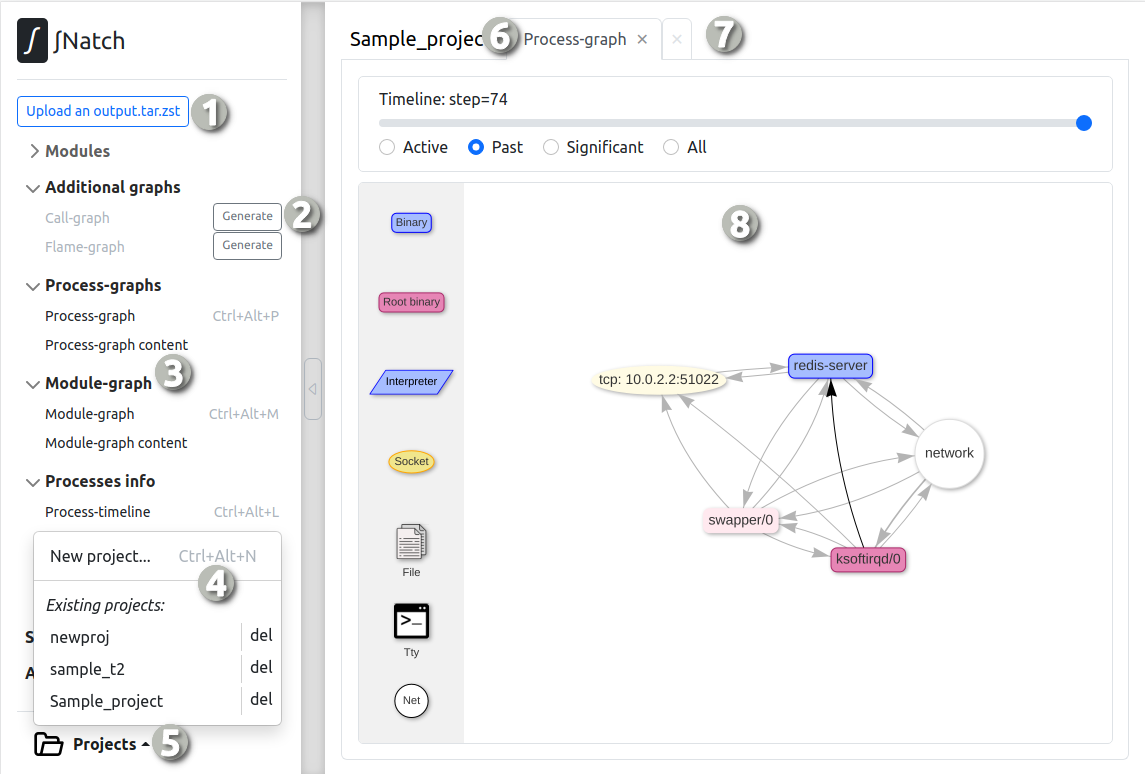
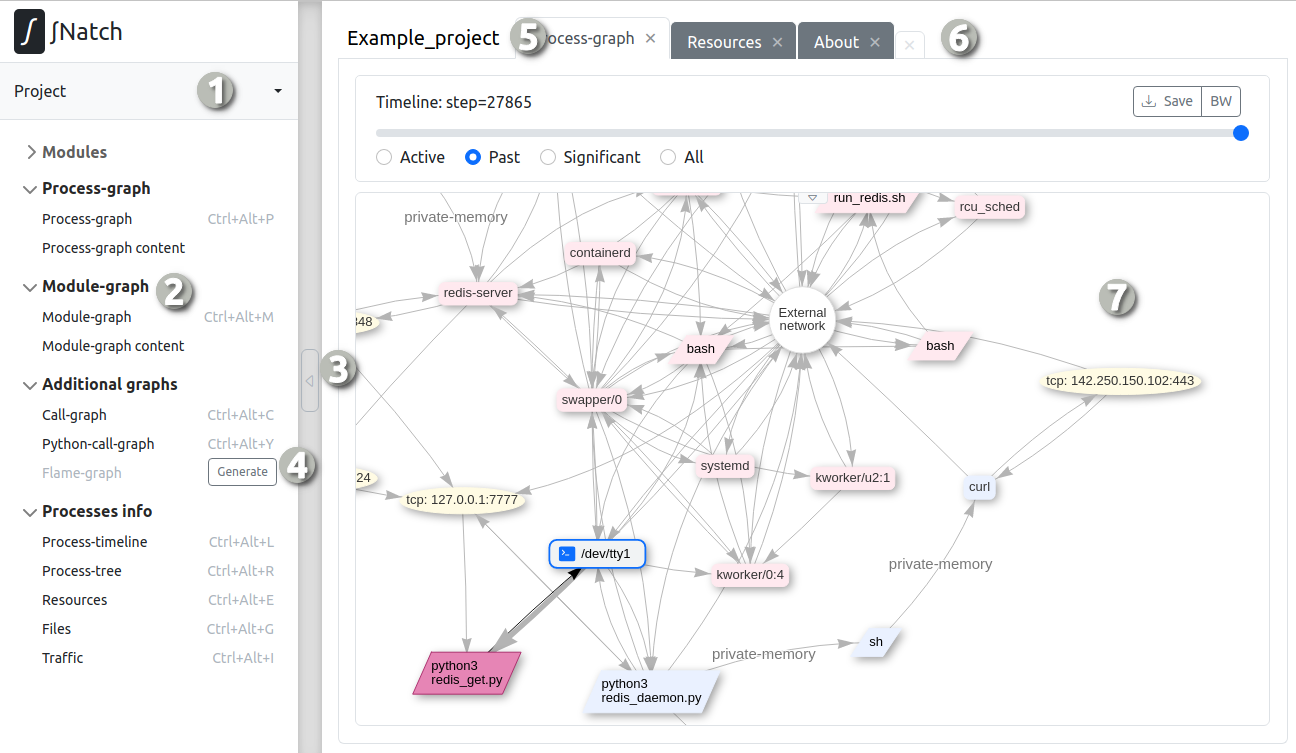
snatch: changed documentation accrodingly to the new release

diff --git a/6_snatch.md b/6_snatch.md
@@ -28,29 +28,32 @@
 
 На данном рисунке показано окно *SNatch*, где цифрами обозначены основные элементы интерфейса:
 
-1. Кнопка для повторной загрузки архива полученного от *Natch*. При нажатии на эту кнопку информация о текущем проекте будет стерта, вкладки закрыты, и будет запущена обработка выбранного архива.
-2. Кнопки генерации дополнительных графов. Граф вызовов и флейм граф не строятся автоматически при создании проекта. Для их генерации необходимо нажать на соответствующие кнопки. После нажатия на кнопке появится индикатор прогресса. При повторном нажатии на кнопку процесс генерации будет отменен. По завершении процесса кнопка исчезнет, а соответствующий пункт в меню станет активным.
-3. Меню проекта. Содержит список доступных данных для проекта (таких как: граф процессов, граф модулей, дерево процессов, граф вызовов и т.д.)
-4. Всплывающее меню для взаимодействия с проектами (создание нового, открытие и удаление существующего).
-5. Кнопка открытия меню взаимодействия с проектами.
-6. Название открытого проекта. По нажатию на название имя проекта можно изменять.
-7. Панель открытых вкладок с содержимым. Каждая вкладка содержит имя и кнопку закрытия. Также на панели представлена кнопка для быстрого закрытия всех вкладок.
-8. Окно отображения содержимого.
+1. Кнопка для вызова главного меню, из которой можно создать новый проект, запустить ряд функций, относящихся к открытому проекту, и открыть существующий проект.
+2. Меню открытого проекта. Содержит список доступных данных для проекта (таких как: граф процессов, граф модулей, дерево процессов, граф вызовов и т.д.)
+3. Кнопка для сворачивания меню проекта.
+4. Кнопка для генерации дополнительных графов для проекта (граф вызовов, граф вызовов python и флейм граф).
+5. Название открытого проекта. По нажатию на элемент активируется режим редактиврования, и имя проекта можно изменить.
+6. Панель открытых вкладок с содержимым. Каждая вкладка содержит имя и кнопку закрытия. Также на панели представлена кнопка для быстрого закрытия всех вкладок.
+7. Окно отображения содержимого.
 
-### 6.3.1. Создание проекта
+### 6.3.1 Главное меню
+Главное меню предоставляет доступ к созданию нового проекта, настройкам, экспорту открытого проекта в .pdf и данным о проекте. Также здесь отображается список существующих проектов, открытие которых осуществляется по нажатию на имя, а удаление – по нажатию на кнопку "del" рядом с именем.
 
-Для создания нового проекта необходимо нажатием на (6) открыть меню проектов и выбрать *New project...*. Для переключения между существующим проектами необходимо из меню проектов в списке *Existing projects:* выбрать название интересующего проекта. Для удаления проекта достаточно в списке проектов нажать на кнопку *del* рядом с именем удаляемого проекта.
+<img src=https://raw.githubusercontent.com/ispras/natch/main/images/snatch/snatch_menu.png><figcaption>_Главное меню_</figcaption>
 
-При нажатии на (1) в уже открытом проекте пользователю будет предложено выбрать новый архив (данный архив получается в результате работы *Natch*), после чего текущие данные в проекте будут стёрты и заменены полученными в результате обработки предоставленного файла.
+
+#### 6.3.1.1 Создание проекта
+
+Для создания нового проекта необходимо выбрать в главном меню пункт *New project...*.
 
 При создании нового проекта открывается модальное окно:
 
 <img src=https://raw.githubusercontent.com/ispras/natch/main/images/snatch/snatch_new_proj_modal.png><figcaption>_Создание проекта_</figcaption>
 
 В данном окне пользователь должен ввести имя нового проекта в соответствующее поле *Project name*,
-а также выбрать архив от *Natch* в поле *Choose surface file*. Эти поля являются обязательными при создании проекта, поэтому только при их заполнении становится активна кнопка *Create*. По нажатию на *Create* создаётся проект, запускается обработка архива, и окно закрывается. При нажатии на кнопку *Close* окно закрывается без создания проекта.
+а также выбрать архив от *Natch* в поле *Choose an output.tar.zst*. Эти поля являются обязательными при создании проекта, поэтому только при их заполнении становится активна кнопка *Create*. Если в момент выбора файла архива поле имени не заполнено, то в него автоматически подставится имя файла. По нажатию на *Create* создаётся проект, запускается обработка архива, и окно закрывается. При нажатии на кнопку *Close* окно закрывается без создания проекта.
 
-Помимо обязательных полей в данном окне присутствует опциональное поле *Description* в котором можно оставить пометки о загружаемом архиве. При работе с проектом эту информацию можно будет увидеть в разделе *About project*.
+Помимо обязательных полей в данном окне присутствует опциональное поле *Description* в котором можно оставить пользовательские заметки. При работе с проектом эту информацию можно будет увидеть в разделе *About the project*.
 
 Название проекта не может содержать ряд специальных символов, и *Snatch* не даст их использовать как при первичном создании проекта, так и при переименовании.
 
@@ -64,9 +67,39 @@
 
 При создании проекта (и открытии проекта без сохраненных вкладок) в нём по умолчанию открывается окно графа процессов.
 
+#### 6.3.1.2 Настройки
+
+Для открытия окна настроек необходимо вызвать из главного меню пункт *Settings*. Содержимое открытого окна будет иметь следующий вид:
+
+<img src=https://raw.githubusercontent.com/ispras/natch/main/images/snatch/snatch_settings.png><figcaption>_Настройки_</figcaption>
+
+В настоящий момент в настройках представлены только поля для конфигурации соединения со *Svacer*, а именно: сетевой адрес, логин и пароль. Это же окно будет открыто при первой попытке взаимодействия со *Svacer* из графа процессов, если параметры соединения не были ранее заданы.
+
+#### 6.3.1.3 Экспортирование проекта
+
+Для экспортирования основной информации о текущем проекте необходимо вызвать из главного меню пункт *Export to pdf*. Содержимое открытого окна будет иметь следующий вид:
+
+<img src=https://raw.githubusercontent.com/ispras/natch/main/images/snatch/snatch_export_modal.png><figcaption>_Окно экспорта_</figcaption>
+
+В данном окне можно выбрать какие именно данные попадут в сгенерированный файл. Выбирать можно из: графа процессов, графа модулей, дерева процессов и ресурсов. Для графа процессов и графа модулей включение в экспорт доступно только после первого открытия, так как требуется первоначальная конфигурация этих графов (в противном случае в окне будет отображаться информационное сообщение). Для дерева процессов и ресурсов можно с помощью переключателей настроить будет ли в сгенерированных данных отображаться информация о рутовых процессах, а так же вся информация, или только о взаимодействии с помеченными данными. После нажатия кнопки *Generate* будет запущен процесс генерация файла, по завершении которого пользователю будет предложено сохранить полученный файл.
+
+Помимо выбранных пунктов в сгенерированный файл всегда попадает содержимое вкладки "About the project" и таблица соответствия внутренних идентификаторов процессов к имеющимся о них данным.
+
+#### 6.3.1.4 О проекте
+
+Для открытия информации о проекте необходимо вызвать из главного меню пункт *About the project*. Содержимое открытой вкладки будет иметь следующий вид:
+
+<img src=https://raw.githubusercontent.com/ispras/natch/main/images/snatch/snatch_about_project.png><figcaption>_Данные о проекте_</figcaption>
+
+Окно содержит следующие элементы:
+
+1. Данные о загруженном архиве: дата создания, рабочая директория, диапазон шагов (процессорных инструкций) сценария, допуск пометок, данные о рассматриваемых источниках пометок.
+2. Статистика помеченных данных в рассматриваемом сценарии.
+3. Версия *Natch*, на которой происходила запись архива.
+4. Заметки для проекта. По умолчанию здесь размещается содержимое поля *Description*, если оно было использовано при создании проекта. Заметки можно редактировать, сохранение происходит автоматически.
 ### 6.3.2. Граф процессов
 
-Граф процессов открывается автоматически после создания проекта. Позже его можно снова открыть через меню.
+Граф процессов открывается автоматически после создания проекта, при наличии в проекте помеченных данных (в противном случае будет выведено информационное сообщение). Его также можно открыть через меню проекта.
 В меню графа процессов есть два пункта: *Process-graph* и *Process-graph content* (json представление графа). После выбора одного из этих пунктов открывается новая вкладка с соответствующим названием. Для *Process-graph content* содержимое вкладки будет представлено текстом, а для *Process-graph* откроется вкладка следующего вида:
 
 <img src=https://raw.githubusercontent.com/ispras/natch/main/images/snatch/snatch_process_graph.png><figcaption>_Граф процессов_</figcaption>
@@ -74,13 +107,20 @@
 В окне графа процессов представлены следующие элементы:
 
 1. Шкала выбора активного шага выполнения. Перемещение по данной шкале соответствующим образом изменяет отображаемый граф.
-2. Выбор режима отображения графа. Граф процессов поддерживает 4 режима отображения:
+2. Кнопки сохранения (экспорта в pdf) текущего состояния графа. По нажатию кнопки "Save" происходит создание цветного изображения графа, по нажатию на "BW" – черно-белого.
+3. Выбор режима отображения графа. Граф процессов поддерживает 4 режима отображения:
   * *Active* – отображаются элементы (узлы и стрелки), которые задействованы на текущем шаге;
   * *Past* – отображаются элементы, которые задействованы на текущем шаге, а также те, которые произошли в прошлом (узлы и стрелки серого цвета);
   * *Significant* – отображаются элементы, которые задействованы на текущем шаге, а также те узлы, которые были задействованы в прошлом и при этом еще будут задействованы в будущем, и прошедшие стрелки между ними (узлы и стрелки бледных цветов);
   * *All* – отображаются элементы, которые задействованы на текущем шаге, а также те узлы (но не стрелки), которые вообще существуют на схеме (узлы бледных цветов).
-3. Легенда графа. Описывает набор отображаемых на графе узлов и их внешний вид.
-4. Граф процессов. Интерактивный граф, отображающий взаимодействие процессов, работавших с помеченными данными. Расположение узлов на графе можно изменять удобным для пользователя образом. При двойном нажатии на узел в данном графе произойдет открытие новой вкладки с отображением графа модулей для выбранного процесса. При наличии информации о контейнерах, таковые будут отображены на графе в виде зеленых блоков, содержащих соответствующие им процессы.
+4. Легенда графа. Описывает набор отображаемых на графе узлов и их внешний вид. По нажатию на элемент легенда скрывается и может быть повторна вызвана нажатием на оставшийся "язычок".
+4. Граф процессов. Интерактивный граф, отображающий взаимодействие процессов, работавших с помеченными данными. Расположение узлов на графе можно изменять удобным для пользователя образом. При наличии информации о контейнерах, таковые будут отображены на графе в виде зеленых блоков, содержащих соответствующие им процессы. При нажатии на узел происходит отображение бокового информационное окно:
+
+<img src=https://raw.githubusercontent.com/ispras/natch/main/images/snatch/snatch_process_infoblock.png><figcaption>_Информационное окно_</figcaption>
+
+В информационном блоке содержатся: название выбранного элемента, его свойства, кнопка открытия соответствующего отфильтрованного графа модулей.
+
+Отдельно обращаем внимание, что положение узлов при взаимодействии с графом сохраняется. При повторном открытии графа процессов узлы будут расположены так же, как и в прошлый раз, при этом не будет происходить перестроение графа с учетом физической модели.
 
 При нажатии правой кнопкой мыши на узел в графе процессов появляется контекстное меню, из которого можно осуществить взаимодействие со *Svacer*. При первой попытке взаимодействия пользователю будет предложено установить адрес сервера, имя и пароль пользователя (если ранее это не было установлено через раздел *Settings*). Затем пользователь увидит окно следующего вида:
 
@@ -94,36 +134,58 @@
 
 <img src=https://raw.githubusercontent.com/ispras/natch/main/images/snatch/snatch_module_graph.png><figcaption>_Граф модулей_</figcaption>
 
-В данном окне представлены следующие элементы:
+Функционал этого окна почти полностью повторяет функционал графа процессов (см 6.3.2):
 
 1. Шкала выбора активного шага выполнения. Перемещение по данной шкале соответствующим образом изменяет отображаемый граф.
-2. Легенда графа. Описывает набор отображаемых на графе узлов и их внешний вид.
+2. Кнопки экспорта графа в цветном и черно-белом варианте.
+3. Сворачиваемая легенда графа. Описывает набор отображаемых на графе узлов и их внешний вид.
 3. Граф модулей. Интерактивный граф, отображающий взаимодействие модулей, работавших с помеченными данными. Расположение узлов на графе можно изменять удобным для пользователя образом. Стрелки, описывающие взаимодействие, сопровождаются номером, соответствующим очередности взаимодействия. Номер с символом *(звездочкой) означает, что на данном шаге между модулями было более одного взаимодействия.
 
-### 6.3.4. Граф вызовов
+Так же, как и в графе процессов, нажатие на узел в графе модулей вызывает информационное окно, содержащее данные о выбранном элементе.
+При взаимодействии с графом его положение сохраняется и воспроизводится при последующем открытии.
 
-В процессе первоначальной обработки архива поверхности атаки граф вызовов не создаётся. Чтобы граф вызовов появился в проекте, необходимо нажать на кнопку *Generate* рядом с соответствующим пунктом в меню проекта. Повторное нажатие кнопки до завершения генерации приведет к отмене процесса. По завершении генерации в боковом меню проекта под пунктом *Additional graphs* станет активным пункт *call-graph*. Для открытия графа вызовов достаточно нажать на данный пункт в меню. После открытия появится новая вкладка с соответствующим названием, а в окне отображения содержимого откроется граф, представленный в виде древовидной структуры:
+### 6.3.4. Графы вызовов
+#### 6.3.4.1 Классический граф вызовов
+
+В процессе первоначальной обработки архива поверхности атаки граф вызовов не создаётся. Чтобы граф вызовов появился в проекте, необходимо нажать на кнопку *Generate* рядом с соответствующим пунктом в меню проекта. Повторное нажатие кнопки до завершения генерации приведет к отмене процесса. По завершении генерации в боковом меню проекта под пунктом *Additional graphs* станет активным пункт *Call-graph* и появится пункт *Python-call-graph* (подробнее в 6.3.4.2). Для открытия графа вызовов достаточно нажать на данный пункт в меню. После открытия появится новая вкладка с соответствующим названием, а в окне отображения содержимого откроется граф, представленный в виде древовидной структуры:
 
 <img src=https://raw.githubusercontent.com/ispras/natch/main/images/snatch/snatch_call_graph.png><figcaption>_Граф вызовов_</figcaption>
 
 В данном окне представлены следующие элементы:
 
 1. Чекбоксы опций. *Hide symbolless graphs* прячет из отображаемого графа деревья, не содержащие распознанных символов (если данная опция неактивна, то в текущем проекте все деревья содержат символьную информацию); *Full modules path* задаёт формат отображения имен модулей на графе: сокращенный или полный путь.
-2. Элементы управления графом. Первая кнопка (три горизонтальные черты) раскрывает все ветви графа, содержащие символы; повторное нажатие этой кнопки сворачивает весь граф. Нажатие на кнопки +/- рядом с веткой раскрывает/сворачивает данную ветку в дереве.
-3. Содержимое графа. В корне дерева отображается имя процесса, к которому относится данный граф вызовов. Каждый узел дерева содержит имя вызванной функции (адрес смещения в модуле, при отсутствии символьной информации), путь к файлу исходного кода и строка в файле, относящаяся к началу функции, имя модуля. Синим цветом выделяются функции непосредственно взаимодействовавшие с помеченными данными. При наведении курсора на "синие" функции возникает всплывающая подсказка, содержащая номера строк в исходниках, где происходило взаимодействие с помеченными данным. При нажатии на функцию правой кнопкой мыши появляется контекстное меню, из которого можно запустить генерацию вспомогательных данных для Futag. Сгенерированные данные будут помещены в файл в папке *snatch_directory/fuzzing_targets*.
+2. Элементы управления графом. Первая кнопка (три горизонтальные черты с буквой "А") раскрывает все ветви графа; кнопка с буквой "S" раскрывает только символизированные ветви. Повторное нажатие кнопки сворачивает граф. Нажатие на кнопки +/- рядом с веткой раскрывает/сворачивает данную ветку в дереве.
+3. Содержимое графа. В корне дерева отображается имя процесса, к которому относится данный граф вызовов. Каждый узел дерева содержит имя вызванной функции (адрес смещения в модуле, при отсутствии символьной информации), путь к файлу исходного кода и строка в файле, относящаяся к началу функции, имя модуля. Синим цветом выделяются функции непосредственно взаимодействовавшие с помеченными данными. При наведении курсора на "синие" функции возникает всплывающая подсказка, содержащая номера строк в исходниках, где происходило взаимодействие с помеченными данным. Бежевым цветом выделяются функции python, вызванные на этом шаге.
+
+При нажатии на функцию правой кнопкой мыши появляется контекстное меню, из которого можно запустить генерацию вспомогательных данных для Futag, скопировать имя функции и перейти к соответствующей записи в графе вызовов python для "бежевых" функций. Сгенерированные данные для Futag будут помещены в файл в папке *snatch_directory/fuzzing_targets*.
+
+При нажатии на функцию левой кнопкой мыши происходит отображение информационного окна:
+
+<img src=https://raw.githubusercontent.com/ispras/natch/main/images/snatch/snatch_callgraph_infoblock.png><figcaption>_Информация о функции_</figcaption>
+
+В данном окне содержатся: имя функции, её опции, стек вызовов вплоть до выбранной функции. Синим на стеке вызовов отображаются функции, взаимодействовавшие с помеченными данными.
+
+#### 6.3.4.2 Граф вызовов python
+
+При построении графа вызовов строится и граф вызовов python, если в архиве содержалась соответствующая информация. Визуально и функционально данный граф повторяет классический граф вызовов:
+
+<img src=https://raw.githubusercontent.com/ispras/natch/main/images/snatch/snatch_python_call_graph.png><figcaption>_Граф вызовов python_</figcaption>
+
+Из контекстного меню функций, вызываемого правой кнопкой мыши, можно переайти в классический граф вызовов, где будет выбран соответствующий элемент.
 
 ### 6.3.5. Флейм граф
 
-В процессе первоначальной обработки архива от *Natch* флейм граф не создаётся. По аналогии с графом вызовов необходимо нажать на кнопку *Generate* и по завершении вызвать флейм граф нажатием на пункт в меню проекта. В открывшейся вкладке будет показан флейм граф следующего вида:
+Как и *Call-graph* при создании проекта флейм граф не генерируется. Для генерации необходимо нажать на кнопку *Generate* и по завершении вызвать флейм граф нажатием на пункт в меню проекта. Во флейм графе отображаются функции в соответствии с порядком их вызова (снизу-вверх), размер же зависит от продолжительности выполнения функции. Выглядит окно флейм графа следующим образом:
 
 <img src=https://raw.githubusercontent.com/ispras/natch/main/images/snatch/snatch_flame_graph.png><figcaption>_Флейм граф_</figcaption>
 
 В данном окне представлены следующие элементы:
 
 1. Выпадающий список построенных флейм графов, сгруппированный по процессам. Графы, относящиеся к пользовательским потокам, помечены словом *user*, выполнявшиеся ядром – *kernel*. При нажатии на пункт списка произойдет открытие соответствующего флейм графа.
-2. Кнопки навигации по флейм графу. Используются для перемещения между функциями, работавшими с помеченными данными. Нажатие на кнопку *вперед* делает активным следующую такую функцию, *назад* – предыдущую, а *Reset zoom* сбрасывает граф к исходному состоянию (активным становится корневой блок)
-3. Список функций, работавших с помеченными данными. В данном списке показано имя функции (либо смещение относительно модуля, в отсутствии символьной информации) и продолжительность работы функции (синим цветом) в выполненных процессорных инструкциях. При нажатии на пункт в этом списке, соответствующая функция на флейм графе становится активной.
-4. Флейм граф. В верхней части показано имя открытого флейм графа. При нажатии на любой блок флейм графа он становится активным, т.е. занимает 100% ширины графа, с соответствующим расширением дочерних блоков. Синим цветом на флейм графе отображаются функции, взаимодействовавшие с помеченными данными. При наведении курсора на "синие" функции возникает всплывающая подсказка, содержащая адреса в исходниках, где происходило взаимодействие с помеченными данными.
+2. Список цветовой схемы графа. По умолчанию выбирается схема "warm" с оттенками теплого цвета для обычных функций. Во всех цветовых схемах яркий синий цвет обозначает функции, взаимодействовавшие с помеченными данными.
+3. Кнопки навигации по флейм графу. Используются для перемещения между функциями, работавшими с помеченными данными. Нажатие на кнопку *вниз* делает активным следующую такую функцию, *вверх* – предыдущую, а *Reset zoom* сбрасывает граф к исходному состоянию (активным становится корневой блок)
+3. Список функций, работавших с помеченными данными. В данном списке показано имя функции (либо смещение относительно модуля, в отсутствии символьной информации) и продолжительность работы функции (синим цветом) в выполненных процессорных инструкциях. При нажатии на пункт в этом списке, соответствующая функция на флейм графе становится активной и для нее вызывается информационное окно.
+4. Флейм граф. В верхней части показано имя открытого флейм графа. Синим цветом на флейм графе отображаются функции, взаимодействовавшие с помеченными данными. При нажатии на любой блок флейм графа он становится активным, т.е. занимает 100% ширины графа, с соответствующим расширением дочерних блоков. Также для выделенной функции будет отображено информационное окно со свойствами этой функции (по аналогии с информационным окнами описаными выше для графа вызовов, графа процессов и т.д.)
 
 ### 6.3.6. Временной граф процессов
 
@@ -182,26 +244,6 @@
 3. Кнопка открытия в *wireshark* pcap файла с сетевыми пакетами (входящими и исходящими), которые появлялись в системе, начиная со старта.
 4. Список MAC-адресов, участвоваших в работе анализируемого сценария. По нажатию на элемент списка произойдет открытие *wireshark* с примененным фильтром для выбранного устройства.
 5. Список сетевых сессий (взаимодействий между двумя сетевыми адресами), участвоваших в работе анализируемого сценария. Нажатие на элемент списка запустит *wireshark* с фильтром на взаимодействие между указанными адресами. Зеленый блок в заголовке описывает количество элементов в списке.
-
-### 6.3.11. Окно настроек
-
-Для открытия окна настроек необходимо вызвать из меню проекта пункт *Settings*. Содержимое открытой вкладки будет иметь следующий вид:
-
-<img src=https://raw.githubusercontent.com/ispras/natch/main/images/snatch/snatch_settings.png><figcaption>_Настройки_</figcaption>
-
-В настоящий момент в настройках представлены только поля для конфигурации соединения со *Svacer*, а именно: сетевой адрес, логин и пароль. Это же окно будет открыто при первой попытке взаимодействия со *Svacer* из графа процессов, если параметры соединения не были ранее заданы.
-
-### 6.3.12. Информация о проекте
-
-Для открытия информации о проекте необходимо вызвать из меню проекта пункт *About project*. Содержимое открытой вкладки будет иметь следующий вид:
-
-<img src=https://raw.githubusercontent.com/ispras/natch/main/images/snatch/snatch_about.png><figcaption>_Данные о проекте_</figcaption>
-
-Окно содержит следующие элементы:
-
-1. Заметки для проекта. По умолчанию здесь размещается содержимое поля *Description*, если оно было использовано при создании проекта. Заметки можно редактировать, сохранение происходит автоматически.
-2. Данные о загруженном архиве: дата создания, рабочая директория, диапазон шагов (процессорных инструкций) сценария, допуск пометок, данные о рассматриваемых источниках пометок.
-3. Версия *Natch*, на которой происходила запись архива.
 
 ## 6.4. Список горячих клавиш
 
